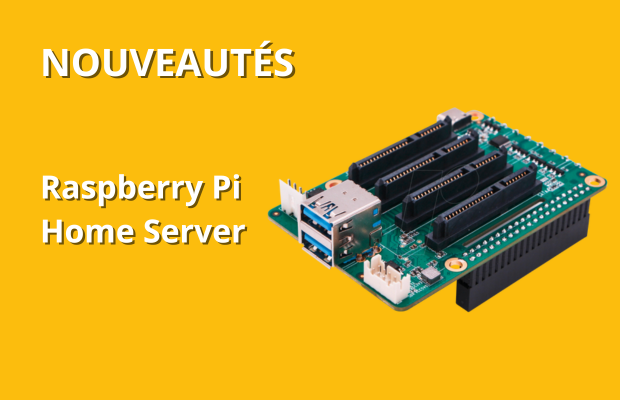
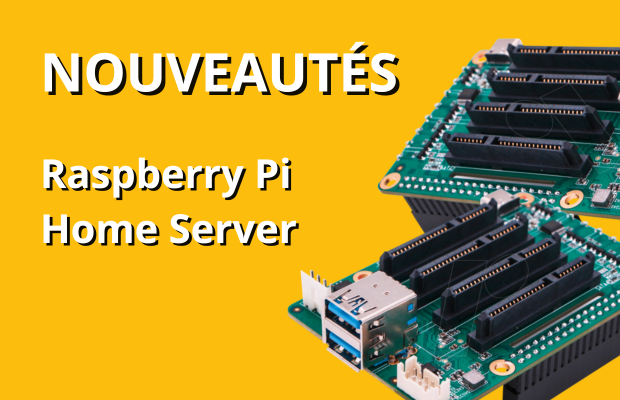
fin responsive page index.html et composants

diff --git a/css/style.css b/css/style.css
@@ -383,9 +383,10 @@ body {
 }
 
 .cta-contact-content p {
-    font-size: 1.3em;
+    font-size: 1.2em;
     width: 65%;
     margin: auto;
+    color: rgb(97, 97, 97);
 }
 
 .contact-btn {
@@ -1312,6 +1313,12 @@ textarea {
         flex-direction: column;
     }
 
+    .cta-contact-content p {
+        font-size: 1em;
+        width: 100%;
+        text-align: center;
+        margin: auto;
+    }
 
     /* PAGE KITS/PACKS - KITS/PACKS SECTION */
 
@@ -1336,6 +1343,15 @@ textarea {
         font-size: 1em;
     }
 
+
+    /* FOOTER SECTION */
+
+    .footer-content {
+        display: grid;
+        grid-template-columns: repeat(auto-fit, minmax(15em, 1fr));
+        gap: 3em;
+        color: #FFF;
+    }
 
 
 

diff --git a/index.html b/index.html
@@ -119,7 +119,7 @@
     <section class="banner">
         <div class="container">
             <div class="header-banner">
-                <img src="img/arduino-banner.png" alt="">
+                <img src="img/header-banner.png" alt="">
             </div>
         </div>
     </section>
@@ -128,7 +128,7 @@
     <section class="banner">
         <div class="container">
             <div class="mobile-header-banner">
-                <img src="img/Raspberry-pi-mobile-banner.png" alt="">
+                <img src="img/header-mobile-banner.png" alt="">
             </div>
         </div>
     </section>
